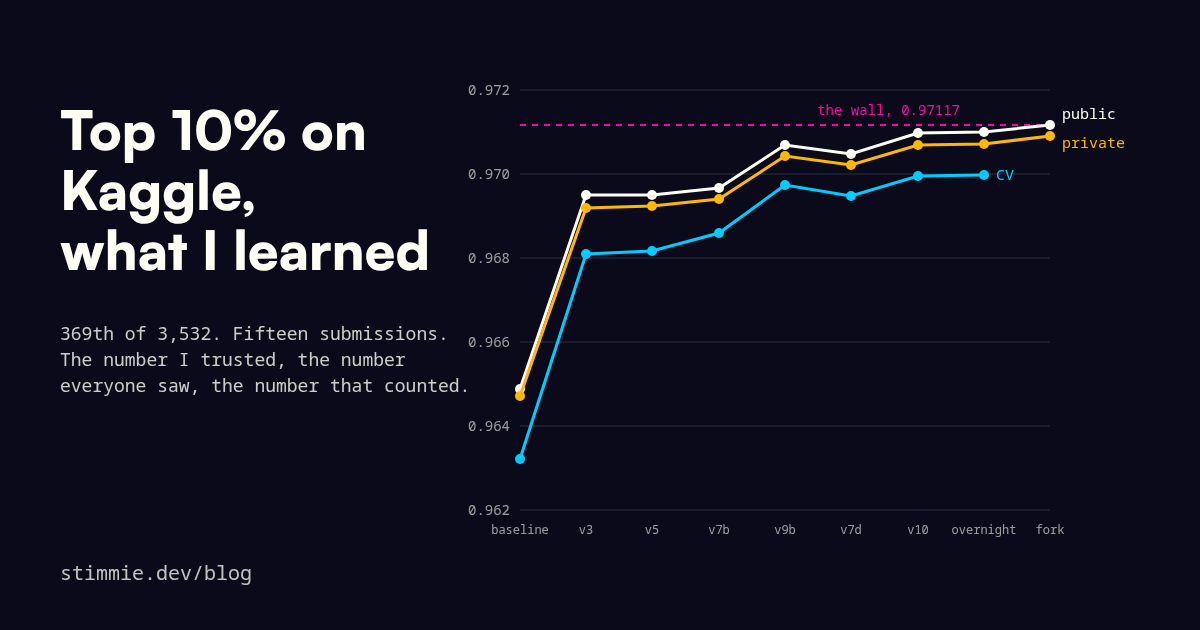
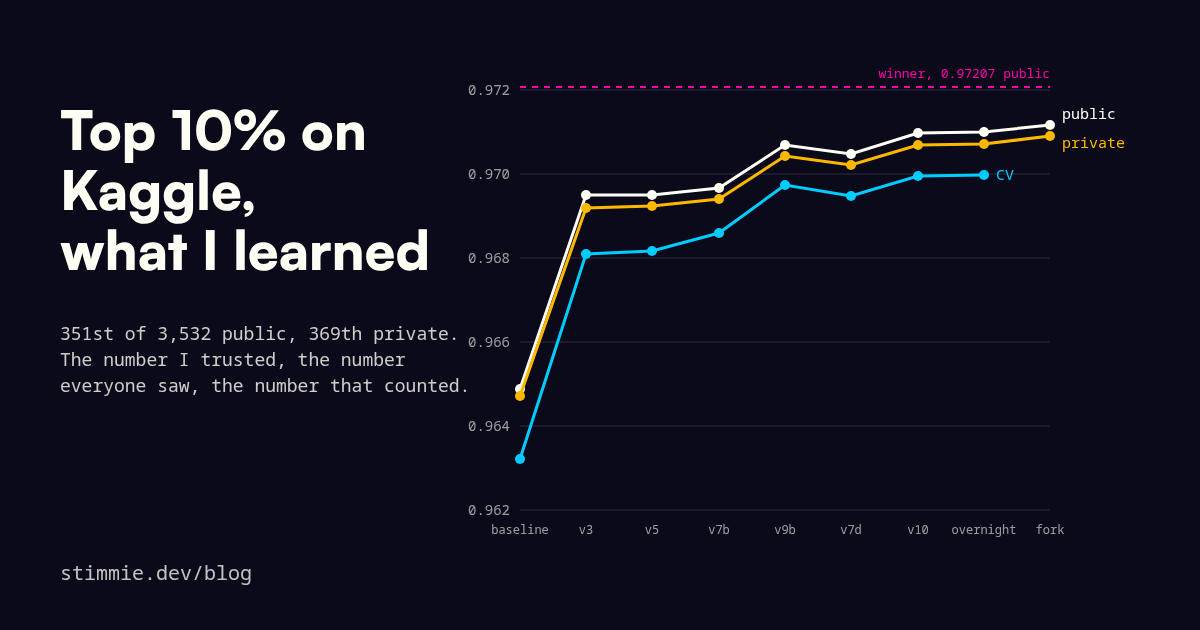
fix(blog): correct the leaderboard facts in the Kaggle post
The 0.97117 tie was a snapshot from Aug 23, not the final board. By the
deadline 344 teams finished above it. Also corrects the winner's scores
and the public/private percentile claims.

Claude-Session: https://claude.ai/code/session_01SiFhgUcJUqx6MQk2GS2nYk

diff --git a/src/app/blog/top-ten-percent-on-kaggle/page.js b/src/app/blog/top-ten-percent-on-kaggle/page.js
@@ -2,7 +2,7 @@ import Link from "next/link";
 import PageShell from "@/components/neo/PageShell";
 
 const desc =
-  "Twelve days on Kaggle Playground S6E8, from a 0.96487 baseline to 369th of 3,532. What cross-validation, leakage, synthetic-data artifacts, and the fork wall turned out to mean.";
+  "Twelve days on Kaggle Playground S6E8, from a 0.96487 baseline to 351st of 3,532. What cross-validation, leakage, synthetic-data artifacts, and forking a public notebook turned out to mean.";
 
 export const metadata = {
   title: "What I learned placing top 10% in a Kaggle competition",
@@ -12,7 +12,7 @@ export const metadata = {
     description: desc,
     url: "https://stimmie.dev/blog/top-ten-percent-on-kaggle",
     type: "article",
-    images: [{ url: "/blog/kaggle/cover.png", width: 1200, height: 630, alt: "Kaggle S6E8 submissions, CV against leaderboard" }],
+    images: [{ url: "/blog/kaggle/cover.png", width: 1200, height: 630, alt: "Kaggle S6E8 submissions, cross-validation against public and private scores" }],
   },
   twitter: { card: "summary_large_image", images: ["/blog/kaggle/cover.png"] },
 };
@@ -57,9 +57,10 @@ export default function KagglePage() {
         </p>
 
         <p>
-          I finished 369th out of 3,532 teams on the private leaderboard, 351st on the public one. Every submission
-          I made is below, with the number I trusted (cross-validation), the number everyone sees (public), and the
-          number that counts (private).
+          I finished 351st of 3,532 teams on the public leaderboard and 369th on the private one. That is the top
+          ten percent on one board and a hair outside it on the other, which is the honest version of the title.
+          Every submission I made is below, with the number I trusted (cross-validation), the number everyone sees
+          (public), and the number that counts (private).
         </p>
 
         <table className="my-6 w-full text-sm border-collapse font-mono">
@@ -151,26 +152,31 @@ export default function KagglePage() {
         <h2>The wall</h2>
 
         <p>
-          Forty-two teams on the public leaderboard had exactly 0.97117, the same score to the fifth decimal.
-          That is one public notebook, itself a blend of other public notebooks, forked by everyone who opened it.
-          Kaggle breaks exact ties by who submitted first, so the top of the public board was mostly a queue.
-          On August 23 I submitted it too, verbatim, with the description &quot;public blend, forked, max public&quot;,
-          and it put me at rank 98 for a week. I want to be clear that number was not mine. Nothing I built
-          scored higher than the wall on the public set, and nothing anyone built did either, except the winner.
+          Partway through I noticed a lot of identical scores on the public leaderboard. That happens when one
+          public notebook, itself a blend of other public notebooks, gets forked by everyone who opens it. Kaggle
+          breaks exact ties by who submitted first, so a chunk of the board was less a ranking than a queue. On
+          August 23 I joined it, submitting the blend verbatim with the description &quot;public blend, forked,
+          max public&quot;. It scored 0.97117 and put me at rank 98 of 2,687. I took a screenshot. I want to be
+          clear that the number was not mine.
         </p>
 
         <p>
-          Kaggle lets you choose two submissions to be scored on the private leaderboard. One slot went to the fork.
-          The other went to the best thing we made ourselves, a fifteen-seed bagged ElasticNet stack with
-          cross-validation 0.96998 and public 0.97101. The theory was that the fork was fitted to the public slice
-          and would drop on private, and the honest one would hold, and I would come out ahead of the queue.
+          By the deadline that same submission was rank 351 of 3,532. Nothing about it had changed. The public
+          notebook kept being improved and re-forked, and the newer forks piled into clusters above mine, 72 teams
+          tied at 0.97128 and 71 at 0.97130, while 344 teams in total finished above me. The queue had moved and I
+          was standing where it used to be. Borrowing a number gets you the number and not the position, and I do
+          not think I would have understood that from reading about it.
         </p>
 
         <p>
-          On September 1 the fork went from 0.97117 to 0.97090. Ours went from 0.97101 to 0.97071. Both dropped by
-          about the same amount, the fork still won, and I moved from 351st to 369th. The theory was wrong, or at
-          least the effect was too small to matter. The winner, Chris Deotte, finished at 0.97176, which is 0.0009
-          above the wall. On this problem, that is what a grandmaster is worth.
+          Kaggle lets you pick two submissions to be scored privately. One slot went to the fork. The other went
+          to the best thing we built ourselves, a fifteen-seed bagged ElasticNet stack, cross-validation 0.96998
+          and public 0.97101. My theory was that the fork was fitted to the public slice and would fall on private,
+          the honest entry would hold, and I would come out ahead of the queue. On September 1 the fork went from
+          0.97117 to 0.97090 and the honest one from 0.97101 to 0.97071. Both dropped by about the same amount,
+          the fork still won, and I landed at 369th. The theory was wrong, or the effect was too small to see. The
+          winner, Chris Deotte, scored 0.97207 public and 0.97176 private, clear of every cluster on both boards.
+          On this problem, that is what a grandmaster is worth.
         </p>
 
         <h2>Why nobody scores 1.0</h2>

diff --git a/src/data/blogs.js b/src/data/blogs.js
@@ -5,7 +5,7 @@ export const blogPosts = [
     slug: "top-ten-percent-on-kaggle",
     title: "What I learned placing top 10% in a Kaggle competition",
     date: "September 10, 2026",
-    excerpt: "Twelve days on Playground S6E8, from a ten-minute baseline to 369th of 3,532, and the forty questions I did not know the answers to.",
+    excerpt: "Twelve days on Playground S6E8, from a ten-minute baseline to 351st of 3,532, and the forty questions I did not know the answers to.",
     coverImage: "/blog/kaggle/cover.png",
   },
   {
